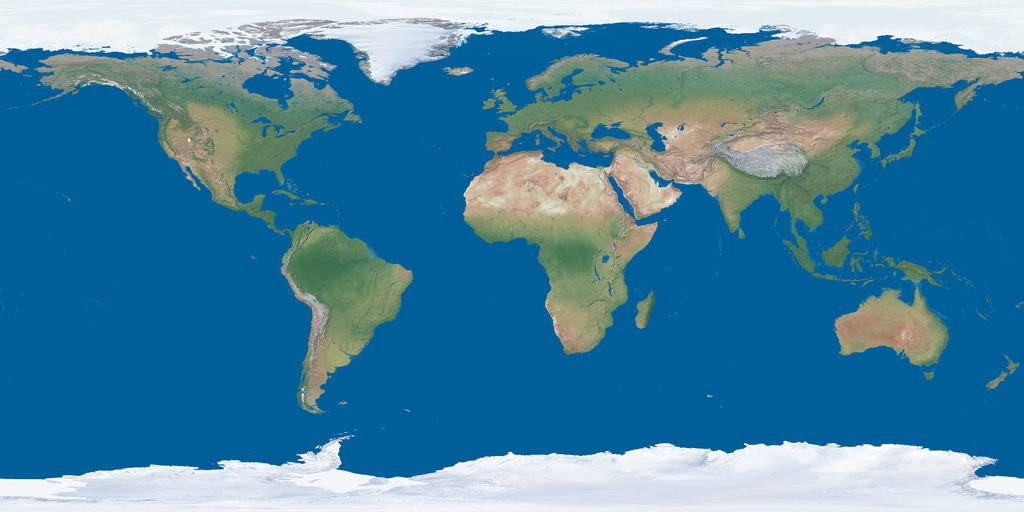
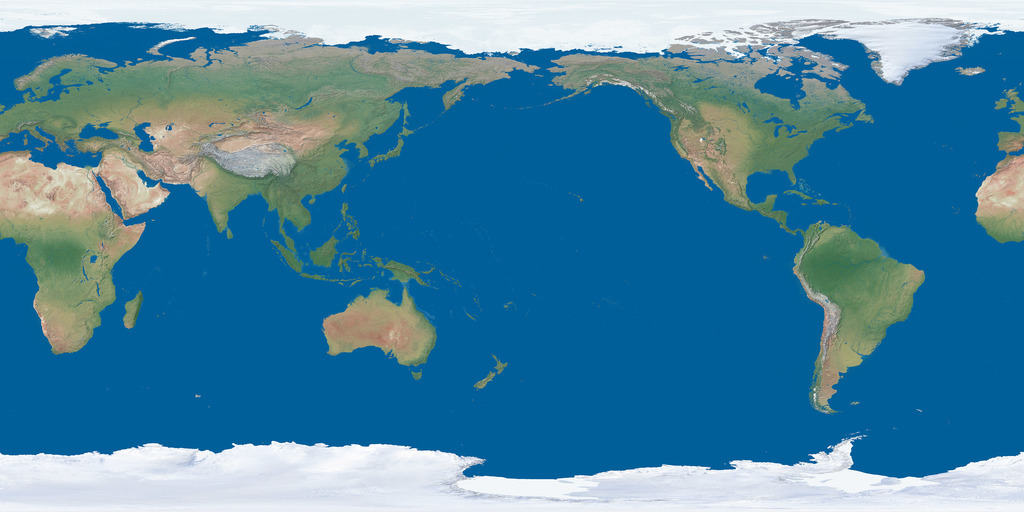
Globe stuff

diff --git a/app/scripts/threed.js b/app/scripts/threed.js
@@ -1,22 +1,21 @@
 angular.module('app')
-  .directive('globe', function globe() {
+  .directive('globe', function globe(API) {
     return {
       restrict: 'E',
       template: '<div class="globe"></div>',
       replace: true,
       link: function(scope, elem) {
-        console.log('globe');
+
+        THREE.ImageUtils.crossOrigin = 'anonymous';
+
         $(elem).css('height', $(elem).width());
         
         var width = $(elem).width();
         var height = $(elem).height();
 
-        console.log(width, height);
-
-
 	    // Earth params
 	    var radius   = 0.5,
-		    segments = 64,
+		    segments = 32,
 		    rotation = 6;  
 
 	    var scene = new THREE.Scene();
@@ -24,12 +23,12 @@ angular.module('app')
 	    var camera = new THREE.PerspectiveCamera(45, width / height, 0.01, 10000);
 	    camera.position.z = 1.5;
 
-	    var renderer = new THREE.WebGLRenderer();
+	    var renderer = new THREE.WebGLRenderer({antialias: true});
 	    renderer.setSize(width, height);
 
         window.r = renderer;
         
-	    scene.add(new THREE.AmbientLight(0x111111));
+	    scene.add(new THREE.AmbientLight(0x222222));
 
         var sphere = createSphere(radius, segments);
 	    sphere.rotation.y = rotation; 
@@ -66,7 +65,7 @@ angular.module('app')
 		    new THREE.MeshPhongMaterial({
 		      map:         THREE.ImageUtils.loadTexture('images/earth.jpg'),
 		      bumpMap:     THREE.ImageUtils.loadTexture('images/bump.jpg'),
-		      bumpScale:   -0.005
+		      bumpScale:   0.005
 		      //specularMap: THREE.ImageUtils.loadTexture('images/water_4k.png'),
 		      //specular:    new THREE.Color('grey')								
 		    })
@@ -74,11 +73,16 @@ angular.module('app')
 	    }
 
 	    function createClouds(radius, segments) {
+          var clouds = THREE.ImageUtils.loadTexture(API.getCloudsURL());
+          clouds.minFilter = THREE.NearestFilter;
 	      return new THREE.Mesh(
 		    new THREE.SphereGeometry(radius + 0.003, segments, segments),			
 		    new THREE.MeshPhongMaterial({
-		      map:         THREE.ImageUtils.loadTexture('images/weather2.png'),
-		      transparent: true
+		      map:         clouds,
+		      transparent: true,
+              specular: 0xffffff,
+              shininess: 10
+              
 		    })
 	      );		
 	    }

diff --git a/app/scripts/controllers.js b/app/scripts/controllers.js
@@ -1,14 +1,14 @@
 angular.module('app')
   .controller('GlobeCtrl', function GlobeCtrl($scope, API, $ionicSlideBoxDelegate) {
 
+    $scope.cities = [];
     API.getRainbowCities().then(function(l) {
-      console.log('x',l);
+      $scope.cities = l.cities;
     });
 
     $scope.$on('tracking', function(_sender, down) {
       $ionicSlideBoxDelegate.enableSlide(!down);
     });
-
 
   })
 ;

diff --git a/app/templates/globe.html b/app/templates/globe.html
@@ -1,3 +1,15 @@
 <div ng-controller="GlobeCtrl">
     <globe></globe>
+
+    <div class="cities">
+        <div ng-show="cities.length > 0">
+            <div ng-repeat="c in cities">
+                {{ c.name_en }}
+            </div>
+        </div>
+
+        <div ng-show="!cities.length">
+            No rainbow alerts at the moment.
+        </div>
+    </div>
 </div>

diff --git a/app/scripts/services.js b/app/scripts/services.js
@@ -13,7 +13,10 @@ angular.module('app')
     };
     
     return {
-      getRainbowCities: jsonGetter('/rainbow-cities')
+      getRainbowCities: jsonGetter('/rainbow-cities'),
+      getCloudsURL: function() {
+        return baseUrl.replace('/app', '/latest/clouds.png');
+      }
     };
   })
 ;

diff --git a/app/styles/_globe.scss b/app/styles/_globe.scss
@@ -1,8 +1,18 @@
 > div  {
+    position: relative;
+    
     background: black;
     color: white;
 
     div.globe {
         height: 100%;
+    }
+
+    div.cities {
+        position: absolute;
+
+        bottom: 60px;
+        left: 0; right: 0;
+        text-align: center;
     }
 }

diff --git a/app/scripts/app.js b/app/scripts/app.js
@@ -1,11 +1,8 @@
 angular.module('app', ['ionic', 'ngTouch', 'templates'])
 
   .run(function() {
-    console.log('hi');
 
     ionic.Platform.ready(function(){
-      console.log('ready');
-
       $("body").removeClass("cloak");
     });    
   })
